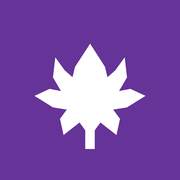
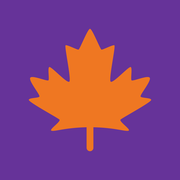
ícone: folha do emoji 🍁 (silhueta Twemoji), laranja em vez de branco
A folha geométrica desenhada à mão saía sempre com ar de estrela. Troca
para a silhueta do maple leaf do Twemoji (assets/svg/1f341.svg, um path só,
CC-BY 4.0), recolorida para laranja de Outono #ef7722 (não é cor de
atleta), sobre o mesmo quadrado roxo #663399.

gen_icons.py: rasteriza com PyMuPDF (o svglib/reportlab local não tem
backend). Precisa de `pymupdf` + `pillow` (dev-only, não entra no run_all).

README: atribuição do Twemoji.

Changed region(s): [[0.1667, 0.1667, 0.8333, 0.8611]]

diff --git a/pipeline/gen_icons.py b/pipeline/gen_icons.py
@@ -1,117 +1,101 @@
-"""Ícones da PWA + favicon, a partir de uma forma única (folha de ácer sobre
-quadrado roxo). Roxo = #663399, a cor da marca Squadrats (o logótipo deles é
-fill='#639'); NÃO o roxo da Xeira (#9c46d8).
+"""Ícones da PWA + favicon, a partir de uma forma única: a folha de ácer do
+emoji 🍁 (silhueta do Twemoji, um path só, CC-BY 4.0) recolorida de laranja,
+sobre um quadrado roxo #663399 (a cor da marca Squadrats; o logótipo deles é
+fill='#639'), NÃO o roxo #9c46d8 da Xeira.
 
 Contexto da folha: o projecto começou como folha de cálculo no Google Sheets
 ("folha do clube").
 
-Desenha com Pillow (sem rasterizador de SVG na máquina). A mesma forma está
-à mão em icon.svg, que serve de favicon vectorial. Re-executar depois de
-mexer na forma:  py pipeline/gen_icons.py
+Rasteriza os SVG com PyMuPDF (não há rasterizador de sistema).
+Re-executar:  py -m pip install pymupdf pillow  &&  py pipeline/gen_icons.py
 
 Escreve na raiz do repo:
   icon.svg                  vector (favicon + manifest)
-  icon-192.png              maskable=any, cantos arredondados, fundo transparente
+  icon-192.png              cantos arredondados, fundo transparente
   icon-512.png              idem
-  icon-maskable-512.png     roxo até à borda, folha dentro da zona segura
+  icon-maskable-512.png     roxo até à borda, folha na zona segura
   apple-touch-icon.png      180x180, sem transparência (iOS arredonda sozinho)
   favicon-16.png / -32.png  + favicon.ico (16+32)
 """
 import os
 
-from PIL import Image, ImageDraw
+import pymupdf
+from PIL import Image
 
 HERE = os.path.dirname(os.path.abspath(__file__))
 RAIZ = os.path.dirname(HERE)
 
-ROXO = (0x66, 0x33, 0x99, 255)   # #663399 rebeccapurple, marca Squadrats
-FOLHA = (0xff, 0xff, 0xff, 255)  # branco
+ROXO = "#663399"      # rebeccapurple, marca Squadrats
+LARANJA = "#ef7722"   # laranja de Outono (não é cor de atleta)
 
-# Folha de ácer estilizada (5 lóbulos + pecíolo). Metade direita, centro x=100,
-# caixa 0..200, y para baixo: do bico central, no sentido dos ponteiros, pelo
-# lado direito até ao pé; a esquerda é o espelho. Sinus (entalhes) fundos e
-# perto do centro; lóbulo central o mais comprido.
-_META = [
-    (100, 20),                 # bico do lóbulo central
-    (126, 60),                 # ombro direito do central (largo)
-    (130, 78),                 # sinus central|superior (raso)
-    (144, 66),                 # ombro do lóbulo superior
-    (160, 44),                 # bico do lóbulo superior
-    (164, 78),                 # ombro inferior do superior
-    (150, 102),                # sinus superior|lateral (raso)
-    (170, 98),                 # ombro do lóbulo lateral
-    (196, 110),                # bico do lóbulo lateral (ponto mais largo)
-    (164, 130),                # ombro inferior do lateral
-    (140, 134),                # sinus lateral|inferior
-    (152, 150),                # ombro do lóbulo inferior
-    (146, 178),                # bico do lóbulo inferior
-    (118, 156),                # sinus inferior|pecíolo
-    (108, 170),                # a lâmina encontra o pecíolo
-    (108, 202),                # base do pecíolo, lado direito
-    (100, 202),                # base do pecíolo, no eixo
-]
-MAPLE = _META + [(200 - x, y) for x, y in reversed(_META[1:-1])]
+# Silhueta da folha de ácer do Twemoji (assets/svg/1f341.svg), viewBox 36x36,
+# um path só. https://github.com/jdecked/twemoji  (CC-BY 4.0)
+FOLHA_D = (
+    "M36 20.917c0-.688-2.895-.5-3.125-1s3.208-4.584 2.708-5.5-5.086 1.167-5.375"
+    ".708c-.288-.458.292-3.5-.208-3.875s-5.25 4.916-5.917 4.292c-.666-.625 1.542"
+    "-10.5 1.086-10.698-.456-.198-3.419 1.365-3.793 1.282C21.002 6.042 18.682 0 "
+    "18 0s-3.002 6.042-3.376 6.125c-.374.083-3.337-1.48-3.793-1.282-.456.198 "
+    "1.752 10.073 1.085 10.698C11.25 16.166 6.5 10.875 6 11.25s.08 3.417-.208 "
+    "3.875c-.289.458-4.875-1.625-5.375-.708s2.939 5 2.708 5.5-3.125.312-3.125 "
+    "1 8.438 5.235 9 5.771c.562.535-2.914 2.802-2.417 3.229.576.496 3.839-.83 "
+    "10.417-.957V35c0 .553.448 1 1 1 .553 0 1-.447 1-1v-6.04c6.577.127 9.841 "
+    "1.453 10.417.957.496-.428-2.979-2.694-2.417-3.229.562-.536 9-5.084 9-5.771z"
+)
+VB = 36
 
 
-def _folha_pontos(tam, margem):
-    """MAPLE reescalado para um quadrado `tam`, com `margem` (fracção) livre."""
-    util = tam * (1 - 2 * margem)
+def _svg(tam, *, fundo, margem, rx=None):
+    """SVG completo `tam`x`tam`: fundo (roxo arredondado ou cheio) + folha
+    laranja centrada com `margem` (fracção) livre à volta."""
+    esc = tam * (1 - 2 * margem) / VB      # escala da folha
     off = tam * margem
-    return [(off + x / 200 * util, off + y / 200 * util) for x, y in MAPLE]
-
-
-def _rrect(draw, box, raio, fill):
-    draw.rounded_rectangle(box, radius=raio, fill=fill)
-
-
-def _png(caminho, tam, *, fundo, margem, raio_frac=None, ss=4, rgb=False):
-    """Desenha num canvas ss vezes maior e reduz (anti-alias). `rgb`: grava
-    sem canal alfa (apple-touch-icon, que o iOS compõe sobre preto)."""
-    big = tam * ss
-    im = Image.new("RGBA", (big, big), (0, 0, 0, 0))
-    d = ImageDraw.Draw(im)
+    partes = [f'<svg xmlns="http://www.w3.org/2000/svg" width="{tam}" '
+              f'height="{tam}" viewBox="0 0 {tam} {tam}">']
     if fundo == "rrect":
-        _rrect(d, [0, 0, big - 1, big - 1], big * (raio_frac or 0.22), ROXO)
+        partes.append(f'<rect width="{tam}" height="{tam}" rx="{rx or tam*0.22:.0f}" '
+                      f'fill="{ROXO}"/>')
     elif fundo == "cheio":
-        d.rectangle([0, 0, big, big], fill=ROXO)
-    d.polygon(_folha_pontos(big, margem), fill=FOLHA)
-    im = im.resize((tam, tam), Image.LANCZOS)
+        partes.append(f'<rect width="{tam}" height="{tam}" fill="{ROXO}"/>')
+    partes.append(f'<path transform="translate({off:.1f} {off:.1f}) scale({esc:.4f})" '
+                  f'fill="{LARANJA}" d="{FOLHA_D}"/>')
+    partes.append('</svg>')
+    return "\n".join(partes)
+
+
+def _raster(tam, *, fundo, margem, rx=None, ss=4):
+    """SVG -> PIL RGBA, renderizado a ss vezes o tamanho e reduzido (LANCZOS)."""
+    svg = _svg(tam * ss, fundo=fundo, margem=margem, rx=rx and rx * ss)
+    doc = pymupdf.open(stream=svg.encode("utf-8"), filetype="svg")
+    pix = doc[0].get_pixmap(alpha=True)
+    im = Image.frombytes("RGBA", (pix.width, pix.height), pix.samples)
+    if im.size != (tam * ss, tam * ss):
+        im = im.resize((tam * ss, tam * ss), Image.LANCZOS)
+    return im.resize((tam, tam), Image.LANCZOS)
+
+
+def _png(nome, tam, *, fundo, margem, rx=None, rgb=False):
+    im = _raster(tam, fundo=fundo, margem=margem, rx=rx)
     if rgb:
-        fundo_rgb = Image.new("RGB", im.size, ROXO[:3])
-        fundo_rgb.paste(im, mask=im.split()[3])
-        im = fundo_rgb
+        base = Image.new("RGB", im.size, ROXO)
+        base.paste(im, mask=im.split()[3])
+        im = base
+    caminho = os.path.join(RAIZ, nome)
     im.save(caminho)
-    print("escrito:", os.path.relpath(caminho, RAIZ))
-
-
-def _svg(caminho):
-    m = 0.13                       # mesma margem que icon-192/512.png
-    util, off = 512 * (1 - 2 * m), 512 * m
-    pts = " ".join(f"{off + x/200*util:.1f},{off + y/200*util:.1f}" for x, y in MAPLE)
-    svg = (
-        '<svg xmlns="http://www.w3.org/2000/svg" width="512" height="512" '
-        'viewBox="0 0 512 512">\n'
-        '  <rect width="512" height="512" rx="112" fill="#663399"/>\n'
-        f'  <polygon points="{pts}" fill="#fff"/>\n'
-        '</svg>\n'
-    )
-    with open(caminho, "w", encoding="utf-8", newline="\n") as f:
-        f.write(svg)
-    print("escrito:", os.path.relpath(caminho, RAIZ))
+    print("escrito:", nome)
 
 
 def main():
-    _svg(os.path.join(RAIZ, "icon.svg"))
-    # ícone normal: quadrado arredondado, folha com margem folgada
-    _png(os.path.join(RAIZ, "icon-192.png"), 192, fundo="rrect", margem=0.13)
-    _png(os.path.join(RAIZ, "icon-512.png"), 512, fundo="rrect", margem=0.13)
-    # maskable: roxo até à borda; folha dentro de ~66% (Android corta a ~80%)
-    _png(os.path.join(RAIZ, "icon-maskable-512.png"), 512, fundo="cheio", margem=0.20)
-    # iOS: 180x180, sem transparência (o SO arredonda)
-    _png(os.path.join(RAIZ, "apple-touch-icon.png"), 180, fundo="cheio", margem=0.18, rgb=True)
-    # favicon
-    _png(os.path.join(RAIZ, "favicon-32.png"), 32, fundo="rrect", margem=0.12, raio_frac=0.18)
-    _png(os.path.join(RAIZ, "favicon-16.png"), 16, fundo="rrect", margem=0.10, raio_frac=0.16)
+    with open(os.path.join(RAIZ, "icon.svg"), "w", encoding="utf-8", newline="\n") as f:
+        f.write(_svg(512, fundo="rrect", margem=0.14, rx=112) + "\n")
+    print("escrito: icon.svg")
+
+    _png("icon-192.png", 192, fundo="rrect", margem=0.14)
+    _png("icon-512.png", 512, fundo="rrect", margem=0.14)
+    _png("icon-maskable-512.png", 512, fundo="cheio", margem=0.26)
+    _png("apple-touch-icon.png", 180, fundo="cheio", margem=0.16, rgb=True)
+    _png("favicon-32.png", 32, fundo="rrect", margem=0.10, rx=6)
+    _png("favicon-16.png", 16, fundo="rrect", margem=0.08, rx=3)
+
     ico16 = Image.open(os.path.join(RAIZ, "favicon-16.png"))
     ico32 = Image.open(os.path.join(RAIZ, "favicon-32.png"))
     ico32.save(os.path.join(RAIZ, "favicon.ico"), sizes=[(16, 16), (32, 32)],

diff --git a/README.md b/README.md
@@ -45,7 +45,10 @@ git checkout origin/data -- data/
   fails; the data still comes from `raw.githubusercontent`), and the icons
   (`icon.svg`, `icon-192/512.png`, `icon-maskable-512.png`,
   `apple-touch-icon.png`, `favicon.ico`) generated by `pipeline/gen_icons.py`
-  from one shape (maple leaf on Squadrats purple `#663399`). The `<link>` tags
+  (needs `pymupdf` + `pillow`) from one shape: the Twemoji maple-leaf
+  silhouette (`assets/svg/1f341.svg`, [Twemoji](https://github.com/jdecked/twemoji),
+  CC-BY 4.0), recoloured orange `#ef7722`, on Squadrats purple `#663399` (the
+  brand colour; their own logo is `fill="#639"`). The `<link>` tags
   are in every page (via the two stub templates for the generated ones),
   `mapa.html` included for a consistent favicon; installing from anywhere still
   opens the hub (`start_url`). `mapa.html` stays out of `nav.js` and the hub as
